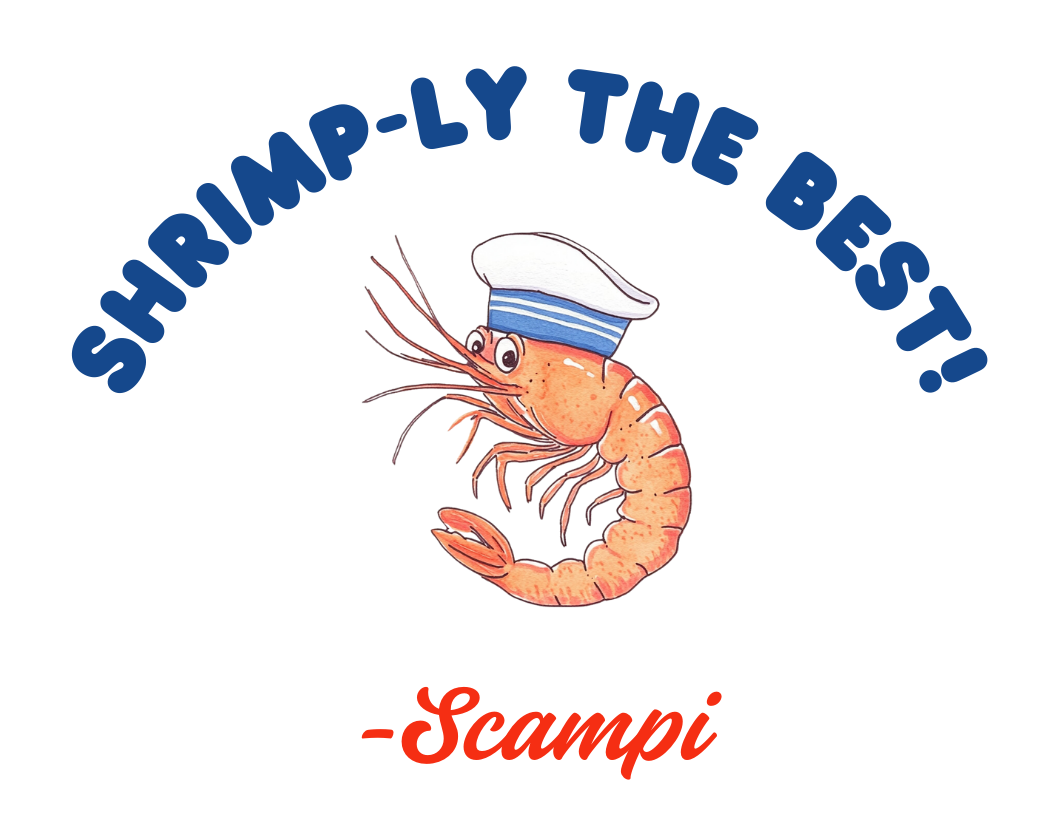
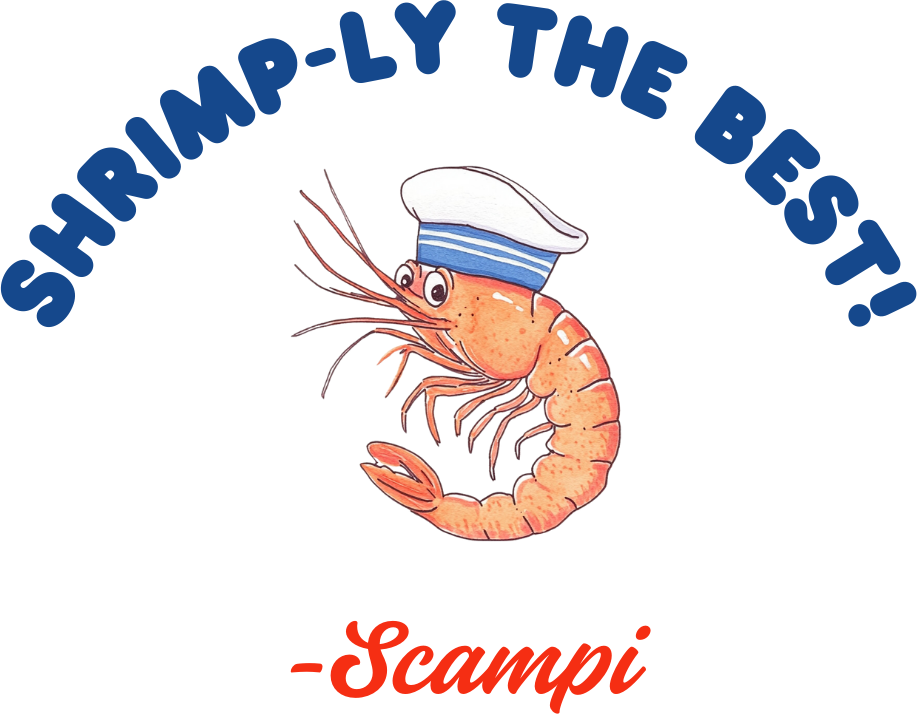
hero wip

diff --git a/web190/final_project/styles/header_styles.css b/web190/final_project/styles/header_styles.css
@@ -51,12 +51,27 @@ nav a {
     background-repeat: no-repeat;
     background-position: top right;
 }
+.seaweed {
+    position: absolute;
+    z-index: 3;
+    bottom: 0;
+    left: -60px;
+    width: calc(50px + 50vw);
+    height: calc(50px + 25vw);
+
+    min-height: 300px;
+    min-width: 200px;
+    background-image: url(../images/seaweed.webp);
+    background-size: contain;
+    background-repeat: no-repeat;
+    background-position: left bottom;
+}
 
 .shrimp_wrapper {
     display: flex;
     justify-content: flex-end;
     align-items: center;
-    height: 500px;
+    height: 530px;
     user-select: none;
     -drag: none;
     -moz-user-select: none;
@@ -65,17 +80,17 @@ nav a {
 }
 .shrimply {
     position: relative;
-    height: 275px;
+    height: 250px;
     width: auto;
     margin-right: 3%;
 }
 @media screen and (max-width: 510px) {
+    .seaweed {
+    }
     .shrimp_wrapper {
         justify-content: center;
     }
     .shrimply {
-        height: 200px;
-
         margin-right: 0;
     }
 }

diff --git a/web190/final_project/index.html b/web190/final_project/index.html
@@ -50,9 +50,9 @@
         </nav>
 
         <div class="net"></div>
-
+        <div class="seaweed"></div>
         <div class="hero">
-            <div class="shrimp_wrapper"><img class="shrimply" src="images/shrimply.png" alt="Shrimply the best!"></div>
+            <div class="shrimp_wrapper"><img class="shrimply" src="images/shrimply-noplate.webp" alt="Shrimply the best!"></div>
             <h1></h1>
 
             <div class="fish_wrapper fish1">
